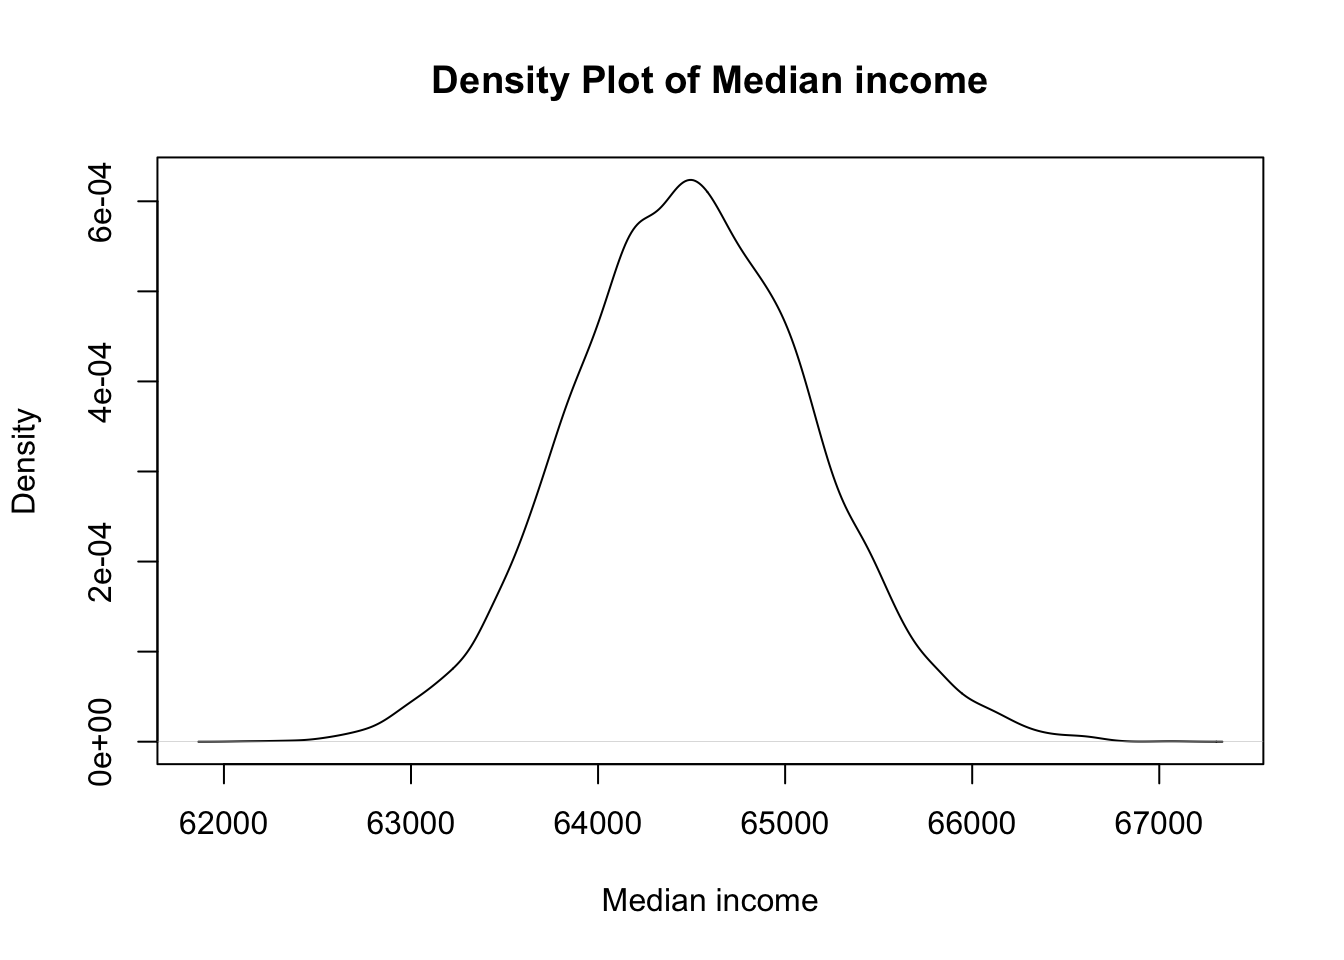
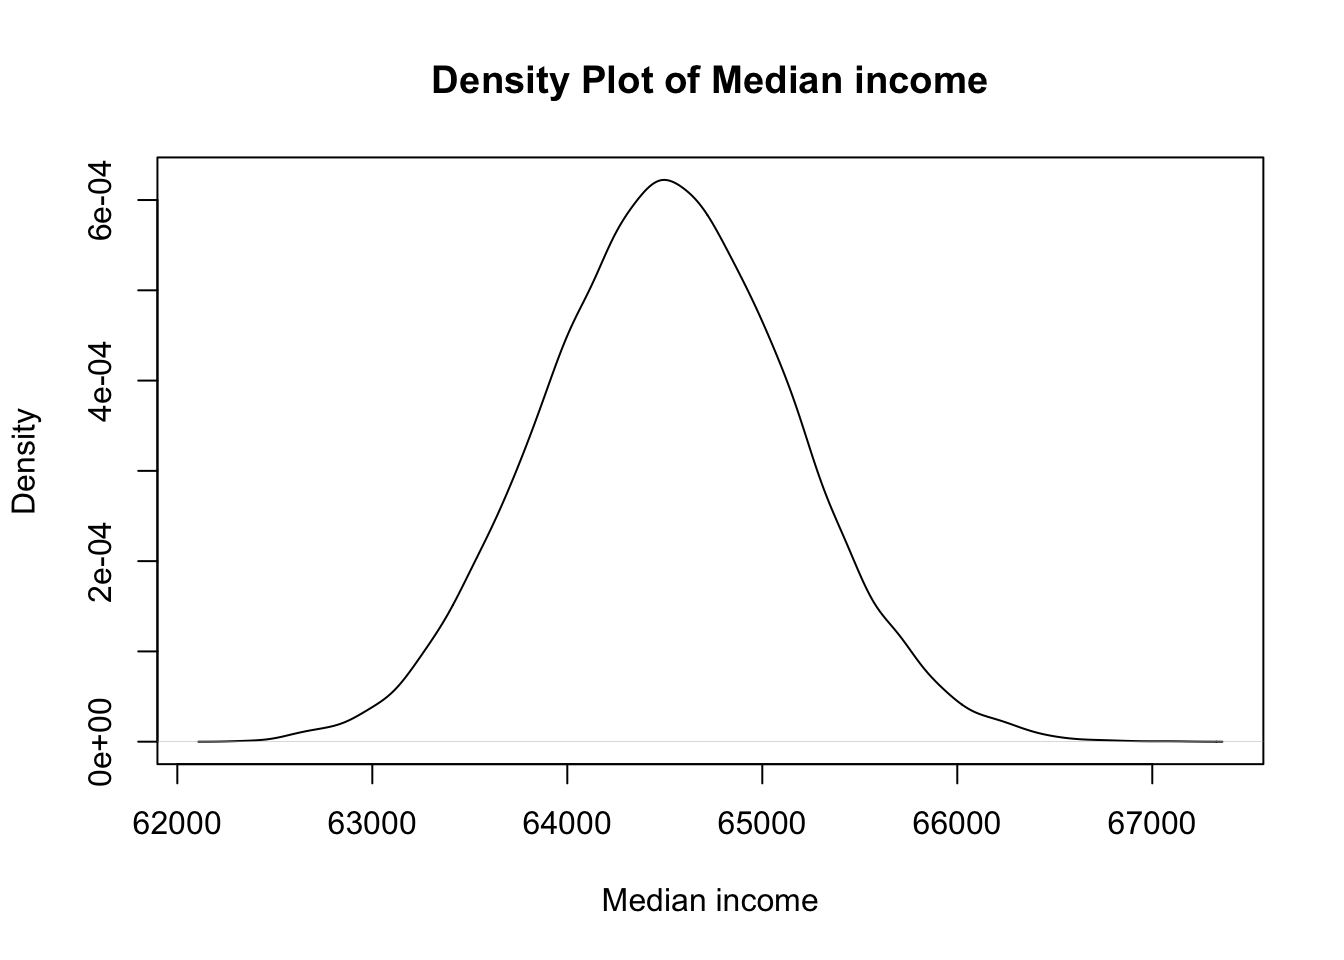
error

diff --git a/docs/posts/montecarlo.html b/docs/posts/montecarlo.html
@@ -1071,7 +1071,7 @@ Income distribution is not normal
 </details>
 <div class="cell-output cell-output-stdout">
 <pre><code>     Min.   1st Qu.    Median      Mean   3rd Qu.      Max. 
-   217158    296161    343336    581999    439593 133399014 </code></pre>
+   212546    295882    344663    572729    440821 332769364 </code></pre>
 </div>
 <details open="" class="code-fold">
 <summary>Code</summary>
@@ -1079,7 +1079,7 @@ Income distribution is not normal
 </details>
 <div class="cell-output cell-output-stdout">
 <pre><code>   Min. 1st Qu.  Median    Mean 3rd Qu.    Max. 
-  62138   64071   64496   64505   64934   67063 </code></pre>
+  62383   64077   64512   64515   64948   67085 </code></pre>
 </div>
 <details open="" class="code-fold">
 <summary>Code</summary>
@@ -1087,7 +1087,7 @@ Income distribution is not normal
 </details>
 <div class="cell-output cell-output-stdout">
 <pre><code>     Min.   1st Qu.    Median      Mean   3rd Qu.      Max. 
-1.038e+06 3.335e+06 5.694e+06 2.877e+07 1.221e+07 1.330e+10 </code></pre>
+1.008e+06 3.302e+06 5.691e+06 2.789e+07 1.218e+07 3.324e+10 </code></pre>
 </div>
 </div>
 </section>

diff --git a/docs/Biomedical/Research Methodology/wrangling.html b/docs/Biomedical/Research Methodology/wrangling.html
@@ -2368,11 +2368,11 @@ Record
 <pre><code>     age   sex  class
    &lt;int&gt; &lt;int&gt; &lt;fctr&gt;
 1:     1     1  child
-2:     2     1  child
+2:     2     0  child
 3:     3     0  child
-4:     4     0  child
+4:     4     1  child
 5:     5     0  child
-6:     6     0  child</code></pre>
+6:     6     1  child</code></pre>
 </div>
 </div>
 <section id="making-data-wide" class="level3">
@@ -2391,11 +2391,11 @@ Record
      age      0      1
    &lt;int&gt; &lt;fctr&gt; &lt;fctr&gt;
 1:     1   &lt;NA&gt;  child
-2:     2   &lt;NA&gt;  child
+2:     2  child   &lt;NA&gt;
 3:     3  child   &lt;NA&gt;
-4:     4  child   &lt;NA&gt;
+4:     4   &lt;NA&gt;  child
 5:     5  child   &lt;NA&gt;
-6:     6  child   &lt;NA&gt;</code></pre>
+6:     6   &lt;NA&gt;  child</code></pre>
 </div>
 </div>
 

diff --git a/docs/Revision notes/Diagrams/diagrams.html b/docs/Revision notes/Diagrams/diagrams.html
@@ -1351,7 +1351,7 @@ window.document.addEventListener("DOMContentLoaded", function (event) {
 </div>
   </div>
 </footer>
-<script>var lightboxQuarto = GLightbox({"selector":".lightbox","openEffect":"zoom","closeEffect":"zoom","loop":false,"descPosition":"bottom"});
+<script>var lightboxQuarto = GLightbox({"loop":false,"openEffect":"zoom","selector":".lightbox","descPosition":"bottom","closeEffect":"zoom"});
 window.onload = () => {
   lightboxQuarto.on('slide_before_load', (data) => {
     const { slideIndex, slideNode, slideConfig, player, trigger } = data;
